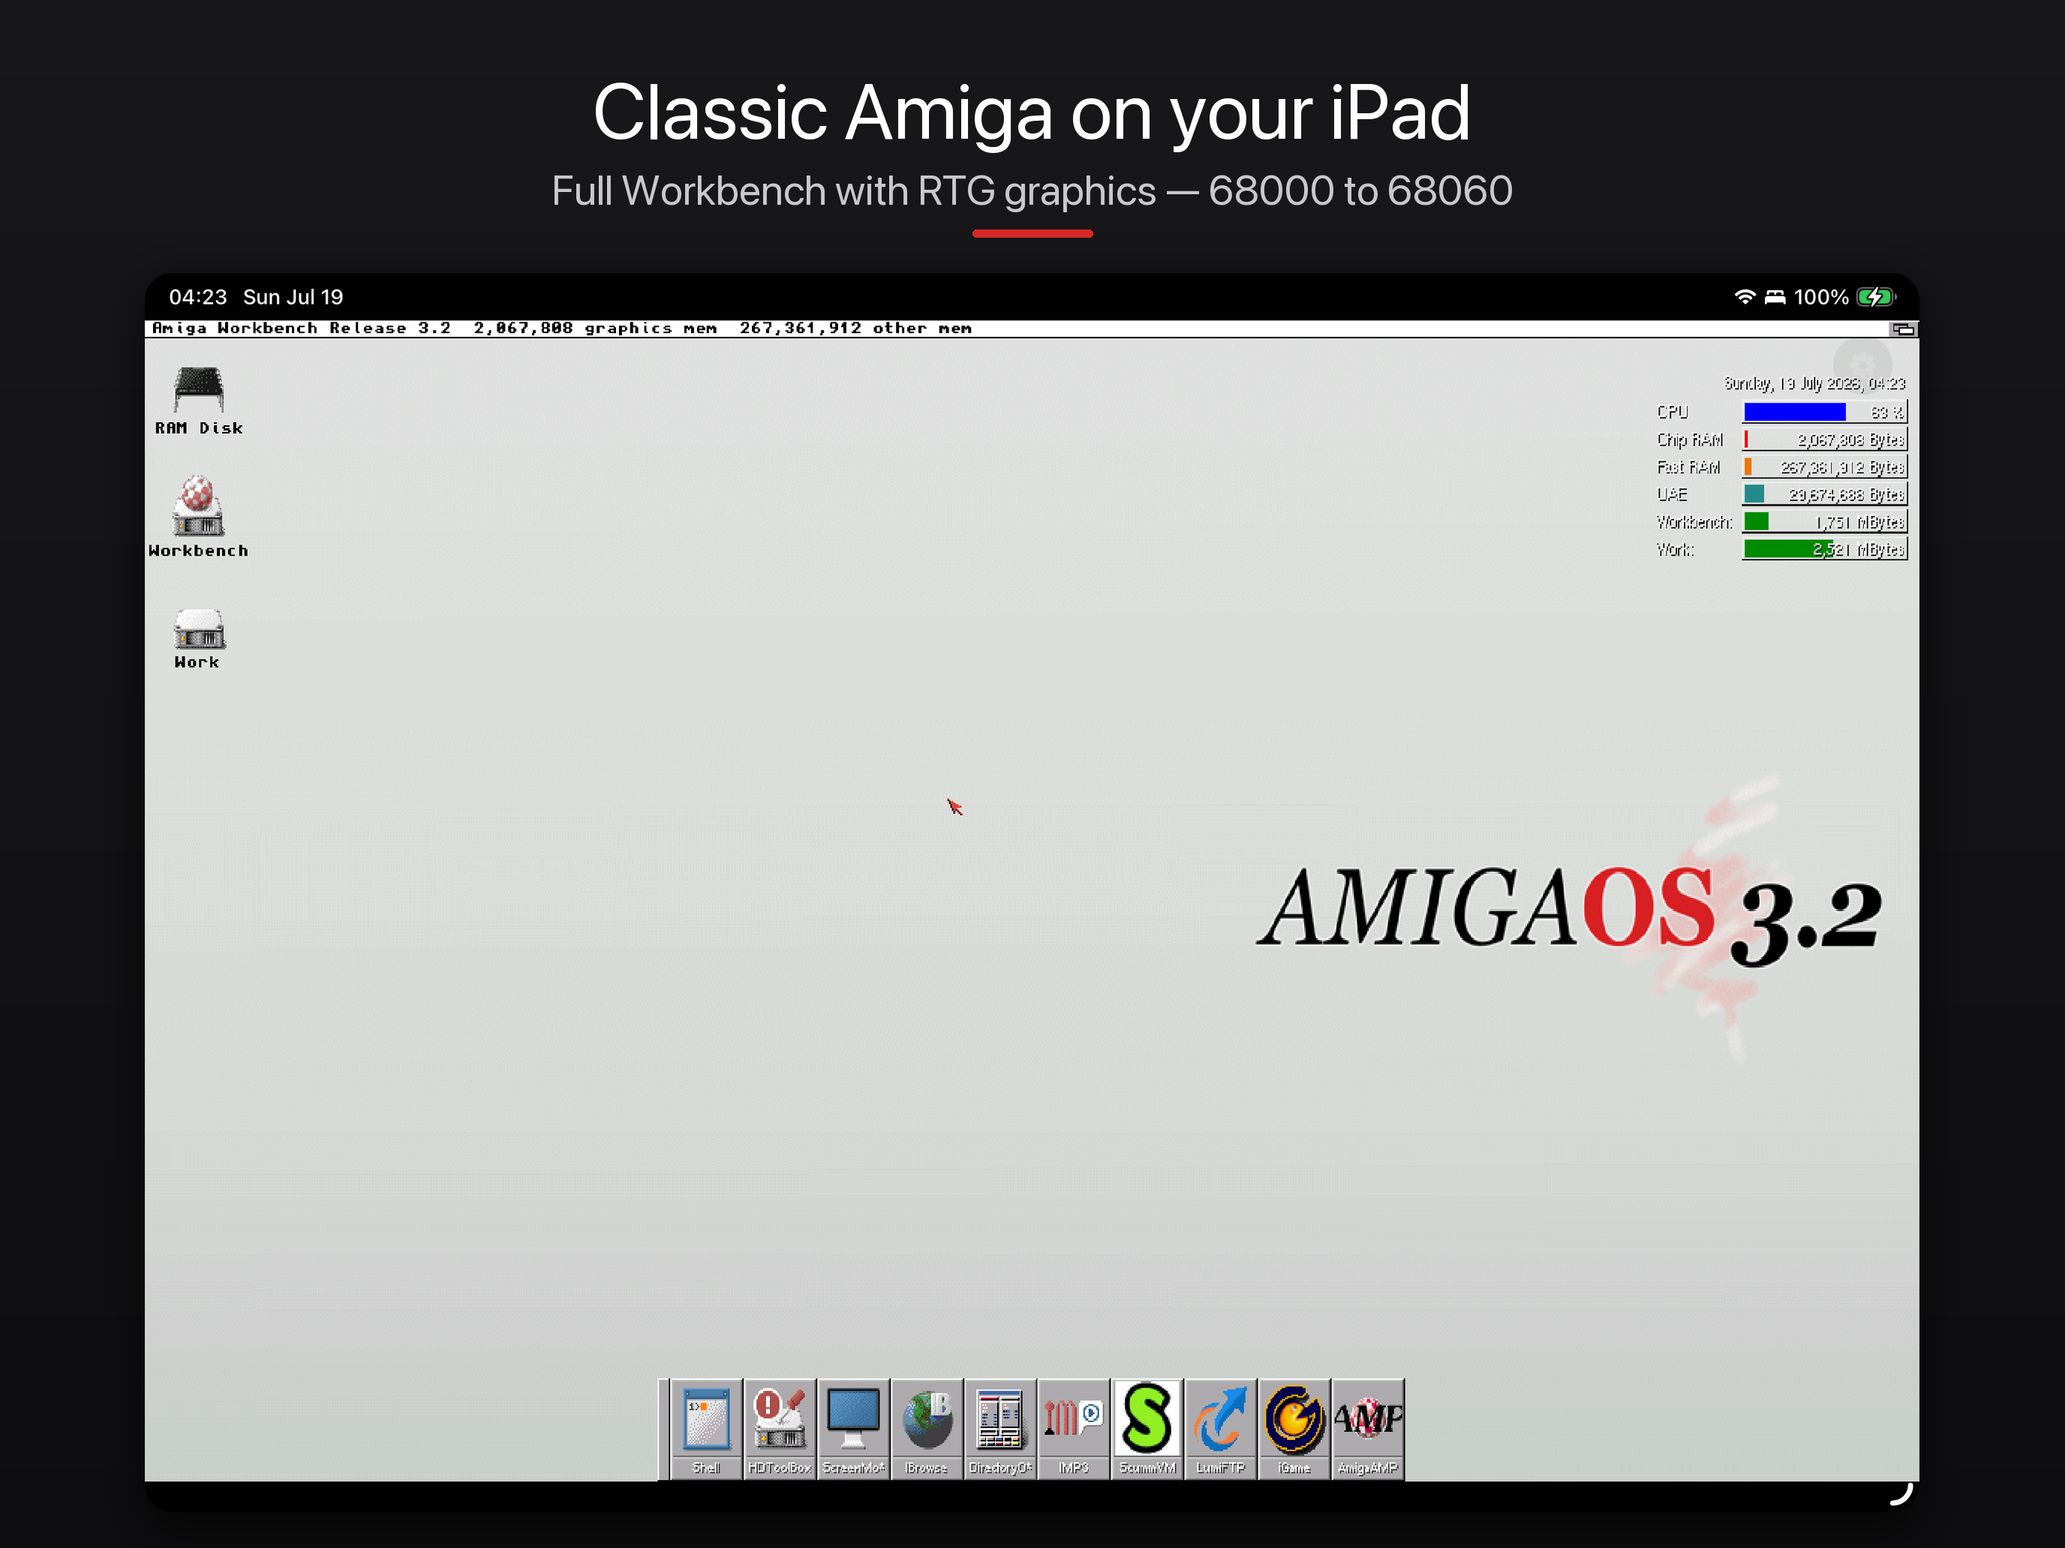
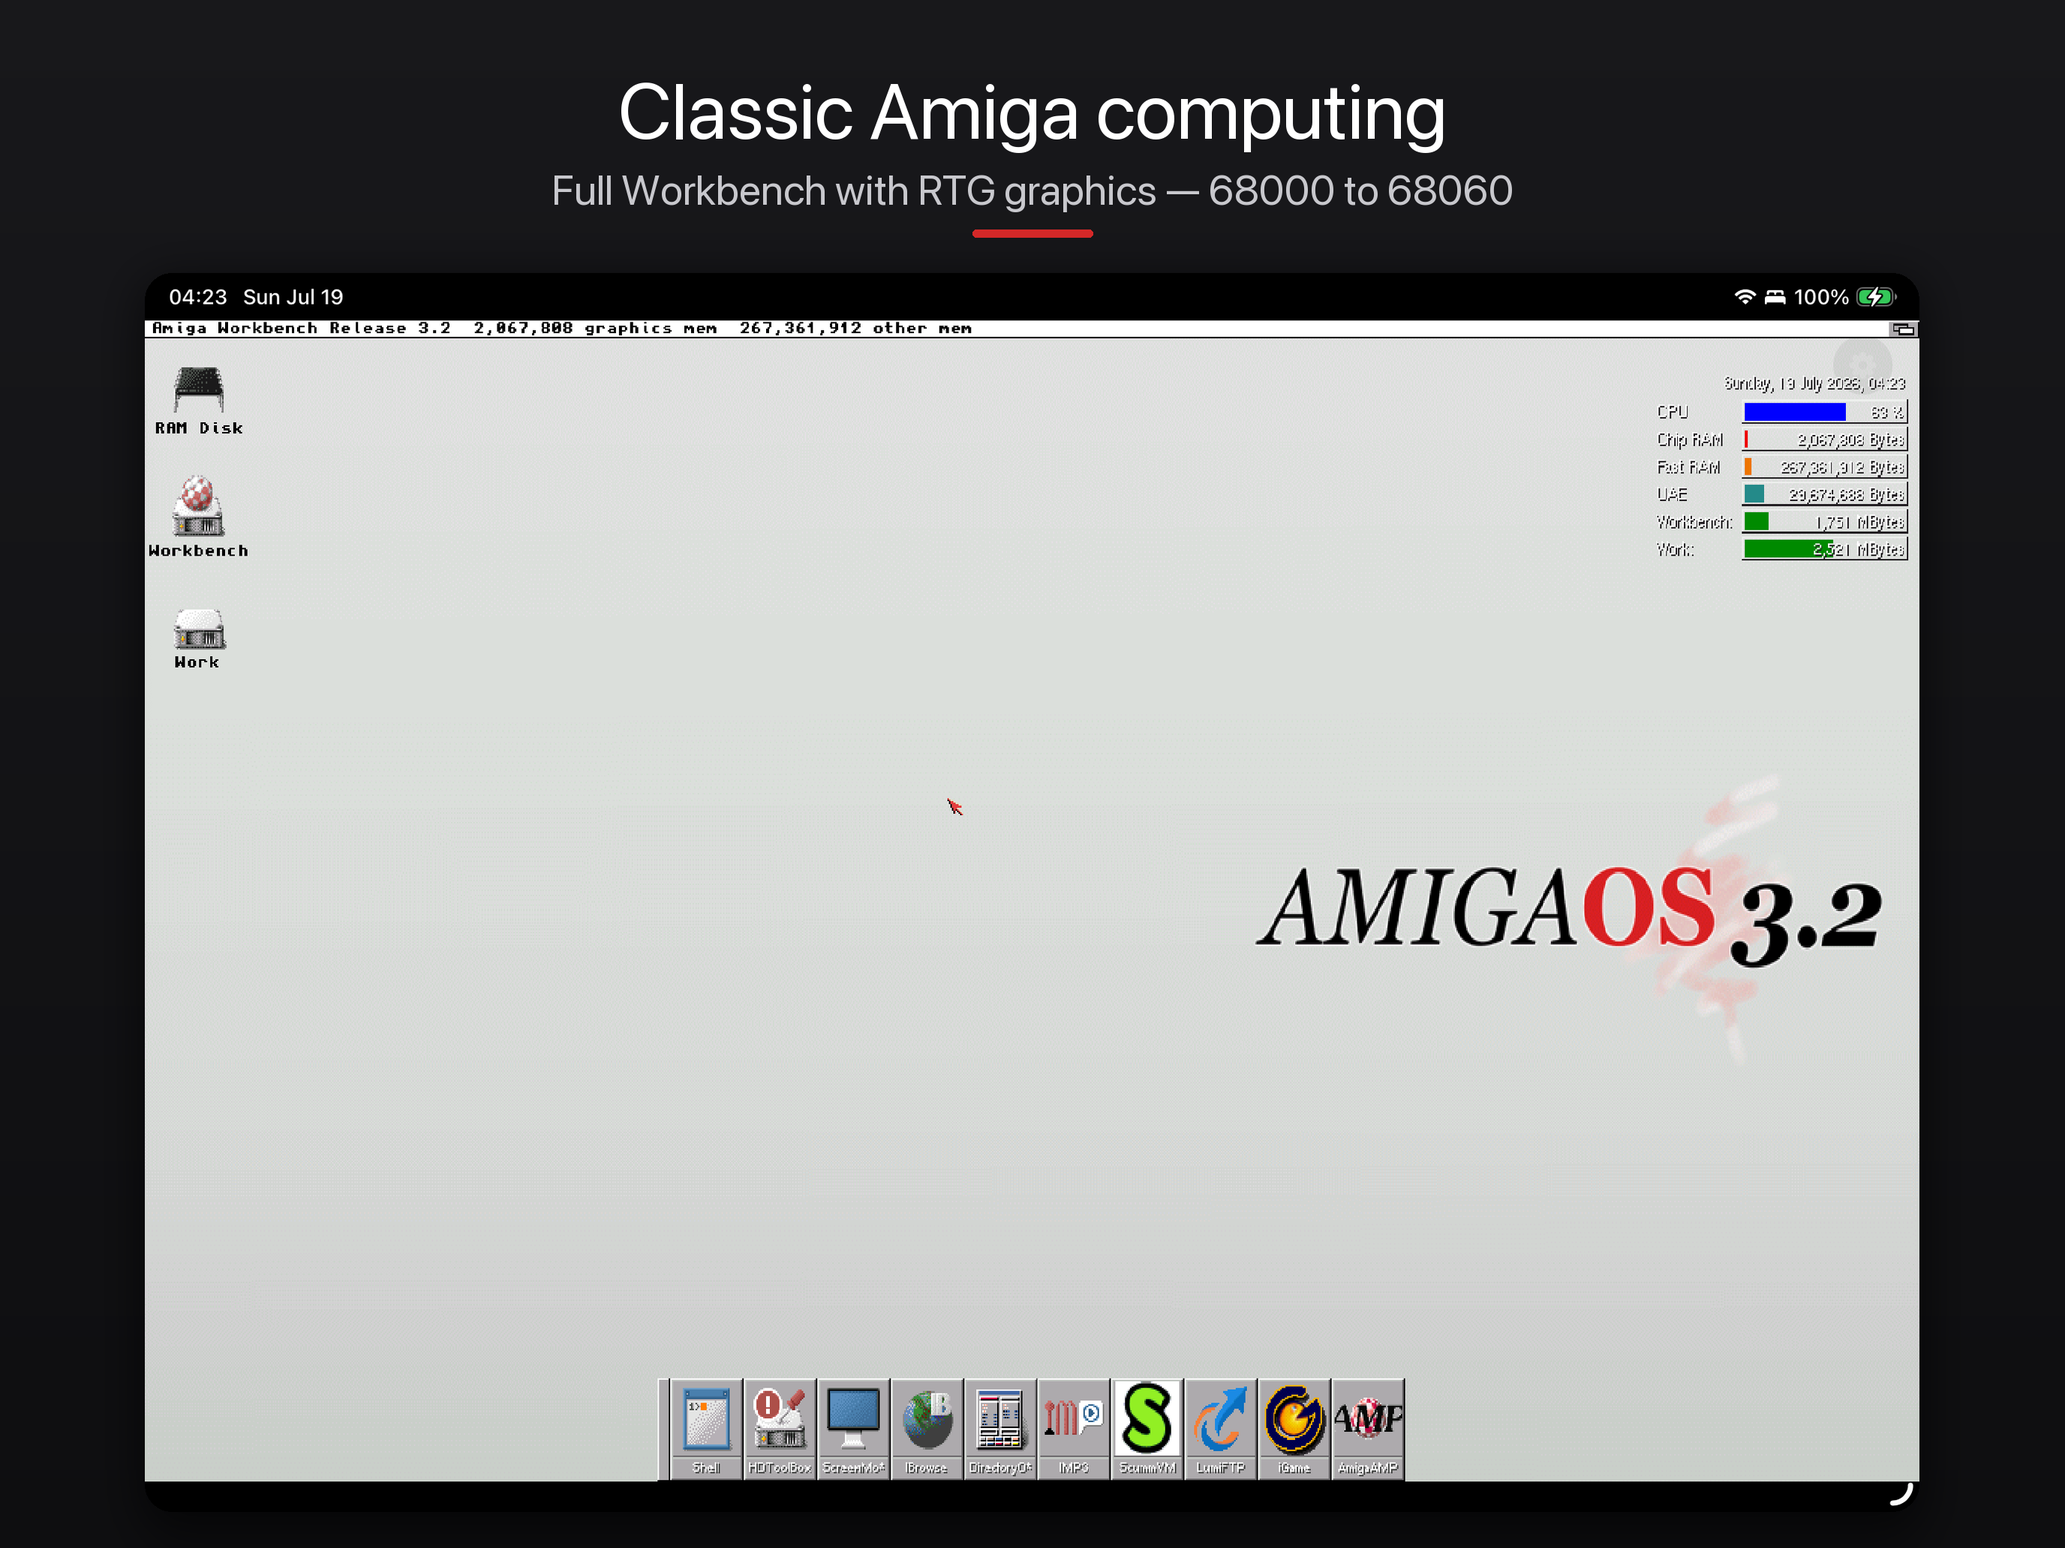
Rename App Store product to "Amigo — Amiga Emulator" (v0.6.4)
Apple rejected 0.6.2 (submission 15571d28) under guideline 5.2.5:
"iPad" used inside the app name/subtitle and the on-device display
name is not permitted. Renamed the App Store listing, on-device
display name (CFBundleDisplayName override — Xcode target/bundle ID/
repo unchanged), in-app About screen and menu title, Files-app path
hints, privacy policy, and encryption statement.

Also updates docs/APPSTORE.md with a resubmission note addressing the
other rejection reason (guideline 2.5.8, "alternate desktop") for the
App Review Resolution Center reply — the emulated Workbench desktop is
AmigaOS's own GUI rendered inside the app's own view, architecturally
identical to already-approved emulators (UTM SE, iDOS 2) that boot a
full desktop GUI of the emulated system.

Changed region(s): [[0.2812, 0.031, 0.7188, 0.124]]

diff --git a/app/Sources/Overlay.swift b/app/Sources/Overlay.swift
@@ -362,7 +362,7 @@ struct ControlPanel: View {
 
     private var mainMenu: some View {
         VStack(alignment: .leading, spacing: 2) {
-            Text("iPadUAE").font(.headline).padding(.bottom, 6)
+            Text("Amigo").font(.headline).padding(.bottom, 6)
             MenuRow(icon: "opticaldiscdrive", title: "Insert DF0…") { submenu = .df0 }
             MenuRow(icon: "opticaldiscdrive", title: "Insert DF1…") { submenu = .df1 }
             MenuRow(icon: "eject", title: "Eject DF0") { ipaduae_eject_floppy(0) }
@@ -452,7 +452,7 @@ struct ControlPanel: View {
             MenuRow(icon: "exclamationmark.arrow.circlepath", title: "Hard Reset") { ipaduae_reset(1) }
             Divider().padding(.vertical, 4)
             MenuRow(icon: "info.circle", title: "About & Licenses…") { submenu = .about }
-            Text("Add disks & Kickstart ROMs via Files:\nOn My iPad › iPadUAE")
+            Text("Add disks & Kickstart ROMs via Files:\nOn My iPad › Amigo")
                 .font(.footnote)
                 .foregroundStyle(.secondary)
         }
@@ -513,7 +513,7 @@ struct KickstartPicker: View {
                 onDone()
             }
             if roms.isEmpty {
-                Text("No ROM files found.\nDrop Kickstart images into Files › iPadUAE › Kickstarts.")
+                Text("No ROM files found.\nDrop Kickstart images into Files › Amigo › Kickstarts.")
                     .font(.footnote).foregroundStyle(.secondary).padding(.vertical, 8)
             }
             ScrollView {
@@ -559,7 +559,7 @@ struct HardDrivePicker: View {
                 Divider().padding(.vertical, 4)
             }
             if images.isEmpty {
-                Text("No HDF images found.\nDrop .hdf files into Files › iPadUAE › HardDrives.")
+                Text("No HDF images found.\nDrop .hdf files into Files › Amigo › HardDrives.")
                     .font(.footnote).foregroundStyle(.secondary).padding(.vertical, 8)
             }
             ScrollView {
@@ -608,7 +608,7 @@ struct FloppyPicker: View {
             .padding(.bottom, 6)
 
             if images.isEmpty {
-                Text("No disk images found.\nDrop .adf files into Files › iPadUAE › Floppies.")
+                Text("No disk images found.\nDrop .adf files into Files › Amigo › Floppies.")
                     .font(.footnote)
                     .foregroundStyle(.secondary)
                     .padding(.vertical, 8)

diff --git a/app/Sources/AboutPanel.swift b/app/Sources/AboutPanel.swift
@@ -1,6 +1,6 @@
 // About & Licenses: attribution and license texts for App Store compliance.
 //
-// iPadUAE ships GPL-2 code (WinUAE); the screen credits upstream authors,
+// Amigo ships GPL-2 code (WinUAE); the screen credits upstream authors,
 // links the buildable source repo, and carries the full GPL-2 text plus
 // the SDL3 (zlib), AROS ROM (APL) and LZMA SDK notices.
 
@@ -41,7 +41,7 @@ struct AboutPanel: View {
                             .font(.title)
                             .foregroundStyle(.red)
                         VStack(alignment: .leading) {
-                            Text("iPadUAE").font(.title3.weight(.semibold))
+                            Text("Amigo — Amiga Emulator").font(.title3.weight(.semibold))
                             Text(version).font(.caption).foregroundStyle(.white.opacity(0.7))
                         }
                     }
@@ -54,7 +54,7 @@ struct AboutPanel: View {
                         .font(.footnote)
 
                     section("Source Code")
-                    Text("iPadUAE is licensed under the GNU General Public License v2. The complete source, including the exact WinUAE revision and all patches for every released build, is available at:")
+                    Text("Amigo is licensed under the GNU General Public License v2. The complete source, including the exact WinUAE revision and all patches for every released build, is available at:")
                         .font(.footnote)
                     Link("github.com/thomas-luebker/iPadUAE",
                          destination: URL(string: "https://github.com/thomas-luebker/iPadUAE")!)

diff --git a/app/Sources/ConfigStore.swift b/app/Sources/ConfigStore.swift
@@ -8,7 +8,7 @@
 import Foundation
 
 enum ConfigStore {
-    // Resource root: the app's Documents folder (shown as "iPadUAE" in the
+    // Resource root: the app's Documents folder (shown as "Amigo" in the
     // Files app). Subfolders (Kickstarts, Floppies, …) live directly here.
     static var winuaeDir: URL {
         FileManager.default.urls(for: .documentDirectory, in: .userDomainMask)[0]

diff --git a/scripts/make_screenshots.py b/scripts/make_screenshots.py
@@ -19,14 +19,14 @@ RAW = ROOT / "docs/screenshots/raw"
 OUT = ROOT / "docs/screenshots/appstore"
 
 CANVAS = (2752, 2064)          # App Store 13-inch iPad, landscape
-ACCENT = (215, 40, 40)         # iPadUAE red
+ACCENT = (215, 40, 40)         # Amigo red
 BG_TOP = (24, 24, 27)
 BG_BOTTOM = (14, 14, 16)
 CAPTION_AREA = 340             # px reserved above the screenshot
 CORNER_RADIUS = 36
 
 SHOTS = [
-    ("IMG_0016.PNG", "01_workbench", "Classic Amiga on your iPad",
+    ("IMG_0016.PNG", "01_workbench", "Classic Amiga computing",
      "Full Workbench with RTG graphics — 68000 to 68060"),
     ("IMG_0020.PNG", "02_machine", "Build your dream Amiga",
      "CPU, chipset, RAM, RTG card and networking in one panel"),

diff --git a/docs/APPSTORE.md b/docs/APPSTORE.md
@@ -1,14 +1,18 @@
-# App Store Listing — iPadUAE
+# App Store Listing — Amigo — Amiga Emulator
 
 Copy-paste source for App Store Connect. Keep in sync with releases.
 
+Renamed from "iPadUAE" for resubmission (guideline 5.2.5 — "iPad" is not
+permitted inside a product name). Repo/bundle ID/internal target name are
+unchanged; only App Store metadata and the on-device display name changed.
+
 ## Name (30 chars max)
 
-    iPadUAE — Amiga Emulator
+    Amigo — Amiga Emulator
 
 ## Subtitle (30 chars max)
 
-    Classic Amiga on your iPad
+    Classic Amiga computing
 
 ## Promotional Text (170 chars, changeable without review)
 
@@ -18,7 +22,7 @@ Copy-paste source for App Store Connect. Keep in sync with releases.
 
 ## Description (4000 chars max)
 
-    iPadUAE brings the classic Commodore Amiga to your iPad. It is a native
+    Amigo brings the classic Commodore Amiga to your iPad. It is a native
     port of WinUAE, the most accurate Amiga emulator, running the complete
     range of classic machines from a stock A500 to a 68060 workstation with
     RTG graphics and networking.
@@ -32,6 +36,9 @@ Copy-paste source for App Store Connect. Keep in sync with releases.
       emulators without JIT
     • 1:1 touch pointer — the Amiga mouse follows your finger — or classic
       trackpad-style relative mode, with two-finger scrolling in both
+    • Apple Pencil support: hover moves the pointer, squeeze clicks
+    • TV output via USB-C or AirPlay — fullscreen Amiga on the big screen
+    • Save states with automatic saving
     • Hardware keyboards, mice, trackpads and game controllers supported
     • Virtual Amiga keyboard, numpad, function keys and joystick overlays
     • Floppy images (ADF/ADZ/DMS) and hard drive images (HDF, RDB and
@@ -43,15 +50,15 @@ Copy-paste source for App Store Connect. Keep in sync with releases.
 
     BRING YOUR OWN SYSTEM
 
-    iPadUAE includes no Amiga operating system, games or copyrighted ROMs.
+    Amigo includes no Amiga operating system, games or copyrighted ROMs.
     If you own Kickstart ROMs and AmigaOS (for example from a licensed
-    distribution), copy them into the iPadUAE folder in the Files app for
+    distribution), copy them into the Amigo folder in the Files app for
     the authentic experience. The bundled AROS ROM boots many titles
     without any Amiga files.
 
     FREE SOFTWARE
 
-    iPadUAE is free, with no ads, purchases or accounts. It is licensed
+    Amigo is free, with no ads, purchases or accounts. It is licensed
     under the GNU GPL v2; the complete source code for every released
     build is available at github.com/thomas-luebker/iPadUAE.
 
@@ -67,30 +74,18 @@ Copy-paste source for App Store Connect. Keep in sync with releases.
     in keywords are a rejection trigger; "amiga" is needed for search and
     is standard across shipping emulators.)
 
-## What's New — 0.6.2
+## What's New — 0.6.4 (resubmission)
 
+    • Renamed to Amigo — Amiga Emulator
     • Save states: three slots plus an automatic save every five minutes
       — resume exactly where you left off
-    • Overlay transparency slider for the virtual keyboard and controls
-    • The menu now always stays above the virtual keyboard
-
-## What's New — 0.6.1
-
-    • Apple Pencil support: hover moves the Amiga pointer, tip clicks,
-      short squeeze right-clicks, long squeeze click-and-drags — with
-      palm rejection while the Pencil hovers
-    • TV output: connect USB-C or AirPlay and the Amiga goes fullscreen
-      on the big screen while controls stay on the iPad
-    • Machine panel: Apply button always visible, warns about unapplied
-      changes
-    • Fixed a crash when starting AirPlay screen mirroring
-    • Plus all 0.4.x improvements: adaptive menu for every iPad size,
-      reliable 1:1 mouse after WHDLoad, richer saved configurations,
-      About & Licenses screen
+    • Apple Pencil support: hover pointer, squeeze to click
+    • TV output via USB-C and AirPlay
+    • Overlay transparency slider; menu always stays above the keyboard
 
 ## App Review Information → Notes (for the reviewer)
 
-    iPadUAE is a retro computer emulator (App Review Guideline 4.7). Key
+    Amigo is a retro computer emulator (App Review Guideline 4.7). Key
     facts for review:
 
     - The app contains NO copyrighted Amiga ROMs, operating systems or
@@ -106,8 +101,20 @@ Copy-paste source for App Store Connect. Keep in sync with releases.
       emulators (UTM SE).
     - The app is free software (GPL-2). Complete, buildable source for
       this exact build: https://github.com/thomas-luebker/iPadUAE
-      (tag v0.6.2).
+      (tag v0.6.4).
     - No data is collected (see Privacy Nutrition Label / PrivacyInfo).
+
+    RE: Guideline 2.5.8 (previous rejection, this submission). The
+    "desktop" shown on first launch is AmigaOS's own graphical shell
+    (Workbench) — the emulated computer's own GUI, rendered entirely
+    inside the app's own view. This is the same category as already-
+    approved emulators that boot a full desktop GUI of the emulated
+    system (UTM SE boots Windows/Linux desktops; iDOS 2 boots DOS/
+    Windows 3.x). The emulated desktop does not interact with, overlay,
+    or replace iOS's Home Screen, Springboard, multitasking UI, or
+    notifications — the app cannot launch other iOS apps, cannot add
+    icons/widgets to the Home Screen, and is fully contained within its
+    own sandboxed window. Happy to provide a screen recording if useful.
 
 ## URLs (App Store Connect fields)
 
@@ -118,7 +125,8 @@ Copy-paste source for App Store Connect. Keep in sync with releases.
     Marketing URL (optional):
       https://github.com/thomas-luebker/iPadUAE
 
-    (All require the repo to be PUBLIC before submission.)
+    (Repo path unchanged — only the App Store product name changed, not
+    the GitHub repo. All require the repo to be PUBLIC.)
 
 ## Copyright (App Store Connect field)
 
@@ -146,4 +154,8 @@ Copy-paste source for App Store Connect. Keep in sync with releases.
     6. Configurations panel with 2–3 saved setups
 
     Raw PNGs → docs/screenshots/raw/. Captioning/framing is scripted
-    (scripts/make_screenshots.py) once raw shots exist.
+    (scripts/make_screenshots.py) once raw shots exist. Existing composed
+    screenshots in docs/screenshots/appstore/ say "Classic Amiga on your
+    iPad" as a caption headline — should be regenerated to drop "iPad"
+    from the caption text too before re-upload (cosmetic, not app
+    metadata, but avoid any appearance of the same issue recurring).

diff --git a/docs/compliance/iPadUAE-Encryption-Statement.md b/docs/compliance/iPadUAE-Encryption-Statement.md
@@ -1,18 +1,18 @@
 # Encryption Export Compliance Statement
 
-**Application:** iPadUAE — Amiga Emulator
+**Application:** Amigo — Amiga Emulator
 
 **Bundle ID:** de.amiga-imager.uae
 
-**Version:** 0.4.2 (build 20260719.1) and all prior builds
+**Version:** 0.6.4 (build 20260729) and all prior builds
 
 **Developer:** Thomas Lübker
 
-**Date:** 19 July 2026
+**Date:** 29 July 2026
 
 ## Self-Classification
 
-iPadUAE does **not implement, contain, or incorporate any cryptographic functionality**. Specifically:
+Amigo does **not implement, contain, or incorporate any cryptographic functionality**. Specifically:
 
 1. The application implements **no encryption algorithms** — neither proprietary algorithms nor standard algorithms such as AES, RSA, or elliptic-curve cryptography.
 
@@ -32,4 +32,4 @@ I declare that the statements above are accurate for the referenced application 
 
 Thomas Lübker
 
-Developer, iPadUAE — thomas.luebker@mac.com
+Developer, Amigo — Amiga Emulator — thomas.luebker@mac.com

diff --git a/README.md b/README.md
@@ -1,8 +1,11 @@
-# iPadUAE
+# Amigo — Amiga Emulator
+
+(repo/internal codename: iPadUAE — the App Store product is named "Amigo —
+Amiga Emulator"; see `docs/APPSTORE.md` for why.)
 
 An iPad port of [WinUAE](https://github.com/tonioni/WinUAE), built directly on the
 upstream Unix/SDL3 layer (`od-unix/`), targeting iPadOS and App Store distribution.
-**Version 0.6.3.** Licensed **GPL-2** (see `LICENSE`), like WinUAE itself.
+**Version 0.6.4.** Licensed **GPL-2** (see `LICENSE`), like WinUAE itself.
 
 Runs full **AmigaOS 3.2 Workbench** on device with RTG graphics (reliable
 across resets), networking, hard drives, 1:1 touch pointer + two-finger

diff --git a/PRIVACY.md b/PRIVACY.md
@@ -1,12 +1,12 @@
-# iPadUAE — Privacy Policy
+# Amigo — Amiga Emulator — Privacy Policy
 
 **Effective date: 20 July 2026**
 
-iPadUAE is a classic Amiga emulator for iPad, developed by Thomas Lübker.
+Amigo is a classic Amiga emulator for iPad, developed by Thomas Lübker.
 
 ## The short version
 
-iPadUAE collects **no data**. None. There are no accounts, no analytics,
+Amigo collects **no data**. None. There are no accounts, no analytics,
 no advertising, no tracking, and no telemetry of any kind.
 
 ## Details
